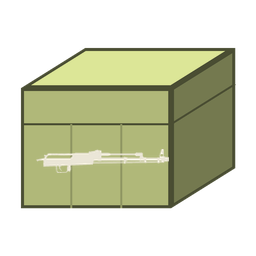
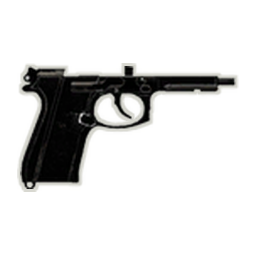
feat(gui): Gunsmith storage is a built-in primary container (#175 PR 3)
Review feedback: it's a primary, feature-wise a sibling of the stash —
the game gives every player exactly one Gunsmith → Storage. So instead
of a user-created Case it's now seeded once per profile (the default-
Shelf contract: persisted flag, fixed id "gunsmith-storage") with the
30 kg cap and icon baked in, pinned under Primary storage right below
the stash, with no Edit/Delete — scan and go. The box_gunsmith icon
left the Case picker (the two Collection Boxes remain).

Also per feedback the icon is now a plain black gun: the M9 silhouette
(near-square, so it fills the 28 px cell where a full rifle rendered
as a sliver) with a thin light contour so it stays visible on the dark
theme — the pure-black first cut vanished into the row background.

README follows the new model and the screenshot is re-captured with
the seeded layout. 318 tests green (new: seed-once + stays-deleted
round-trip; primary renders without actions, with its baked-in cap).

diff --git a/crates/app/src/state.rs b/crates/app/src/state.rs
@@ -17,6 +17,14 @@ pub const OVERRIDES_SCHEMA_VERSION: u32 = 1;
 
 pub type ContainerId = String;
 
+/// Fixed id of the built-in **Gunsmith storage** container. It's a *primary*
+/// like the stash — the game gives every player exactly one (Gunsmith →
+/// Storage, 30 kg cap) — so it's seeded once per profile with this well-known
+/// id ([`AppState::seed_gunsmith_storage`]) and pinned in the Containers tab's
+/// Primary section with no Edit/Delete. Minted ids are `ctr-<n>`, so this can
+/// never collide.
+pub const GUNSMITH_STORAGE_ID: &str = "gunsmith-storage";
+
 /// What kind of secondary container this is. Only [`ContainerKind::Case`]
 /// containers have an in-game contents screen, so only they support the
 /// screenshot/OCR scan; bags and shelves are entered by hand.
@@ -121,6 +129,10 @@ pub struct AppState {
     /// shelf is seeded exactly once per profile (fresh *or* pre-existing) and a
     /// later deletion doesn't bring it back.
     pub default_shelf_seeded: bool,
+    /// Set once the built-in Gunsmith storage has been created (see
+    /// [`AppState::seed_gunsmith_storage`]). Same one-shot contract as
+    /// [`Self::default_shelf_seeded`].
+    pub gunsmith_storage_seeded: bool,
     /// Modules the user has marked as unavailable (e.g. quest-locked). Their
     /// tracked upgrades stay tracked but don't contribute to `active_items`,
     /// so the wishlist hides items the user can't act on yet.
@@ -175,6 +187,7 @@ impl AppState {
             containers: Vec::new(),
             next_container_seq: 0,
             default_shelf_seeded: false,
+            gunsmith_storage_seeded: false,
             disabled_modules: HashSet::new(),
             overrides: HashMap::new(),
             research_states: HashMap::new(),
@@ -947,6 +960,29 @@ impl AppState {
         }
     }
 
+    /// Seed the built-in **Gunsmith storage** primary container exactly once
+    /// per profile (fresh *or* pre-existing — same contract as the default
+    /// Shelf). The game gives every player exactly one Gunsmith → Storage with
+    /// a 30 kg cap, so it arrives ready to scan: fixed id, `Case` kind, the
+    /// gunsmith icon, and the cap baked in. Returns whether it seeded (so the
+    /// caller can persist synchronously, before the save loop exists).
+    pub fn seed_gunsmith_storage(&mut self) -> bool {
+        if self.gunsmith_storage_seeded {
+            return false;
+        }
+        self.containers.push(Container {
+            id: GUNSMITH_STORAGE_ID.to_string(),
+            name: "Gunsmith storage".to_string(),
+            contents: HashMap::new(),
+            icon: Some("box_gunsmith".to_string()),
+            kind: ContainerKind::Case,
+            capacity_kg: Some(30.0),
+        });
+        self.gunsmith_storage_seeded = true;
+        self.bump();
+        true
+    }
+
     /// Set (or clear, with `None`) a container's weight cap in kg. No-op if
     /// the id is unknown or the value is unchanged.
     pub fn set_container_capacity(&mut self, id: &ContainerId, capacity_kg: Option<f32>) {
@@ -1349,6 +1385,10 @@ pub struct PersistedState {
     /// is created once on the next launch.
     #[serde(default)]
     pub default_shelf_seeded: bool,
+    /// Whether the built-in Gunsmith storage has been seeded — same
+    /// forward-compat path as `default_shelf_seeded`.
+    #[serde(default)]
+    pub gunsmith_storage_seeded: bool,
     /// Recorded research progress. `#[serde(default)]` so a pre-research
     /// `state.json` loads as "nothing recorded" — same path as `containers`.
     #[serde(default)]
@@ -1370,6 +1410,7 @@ impl PersistedState {
             containers: state.containers.clone(),
             next_container_seq: state.next_container_seq,
             default_shelf_seeded: state.default_shelf_seeded,
+            gunsmith_storage_seeded: state.gunsmith_storage_seeded,
             research_states: state.research_states.clone(),
             tracked_research: state.tracked_research.clone(),
         }
@@ -1449,6 +1490,7 @@ impl PersistedState {
         state.containers = self.containers;
         state.next_container_seq = self.next_container_seq;
         state.default_shelf_seeded = self.default_shelf_seeded;
+        state.gunsmith_storage_seeded = self.gunsmith_storage_seeded;
         state.bump();
 
         if warnings.is_empty() {
@@ -1783,6 +1825,30 @@ mod tests {
         // Clearing the cap sticks.
         s.set_container_capacity(&id, None);
         assert_eq!(s.containers[0].capacity_kg, None);
+    }
+
+    #[test]
+    fn gunsmith_storage_seeds_exactly_once_and_stays_deleted() {
+        let mut s = AppState::new(fixture());
+        assert!(s.seed_gunsmith_storage(), "fresh profile seeds");
+        assert!(!s.seed_gunsmith_storage(), "second call is a no-op");
+        let g = s
+            .containers
+            .iter()
+            .find(|c| c.id == GUNSMITH_STORAGE_ID)
+            .expect("seeded container present");
+        assert_eq!(g.kind, ContainerKind::Case);
+        assert_eq!(g.capacity_kg, Some(30.0));
+
+        // The flag round-trips, so a (programmatic) deletion doesn't come back
+        // on the next launch — same contract as the default Shelf.
+        s.delete_container(&GUNSMITH_STORAGE_ID.to_string());
+        let json = serde_json::to_string(&PersistedState::from_app(&s)).unwrap();
+        let back: PersistedState = serde_json::from_str(&json).unwrap();
+        let mut s2 = AppState::new(s.data.clone());
+        back.merge_into(&mut s2);
+        assert!(!s2.seed_gunsmith_storage(), "flag survives the round-trip");
+        assert!(s2.containers.iter().all(|c| c.id != GUNSMITH_STORAGE_ID));
     }
 
     #[test]
@@ -2140,6 +2206,7 @@ mod tests {
             containers: Vec::new(),
             next_container_seq: 0,
             default_shelf_seeded: false,
+            gunsmith_storage_seeded: false,
             research_states: HashMap::new(),
             tracked_research: HashSet::new(),
         };
@@ -3012,6 +3079,7 @@ mod tests {
             containers: Vec::new(),
             next_container_seq: 0,
             default_shelf_seeded: false,
+            gunsmith_storage_seeded: false,
             research_states: HashMap::new(),
             tracked_research: HashSet::new(),
         };

diff --git a/crates/app/src/gui/containers_pane.rs b/crates/app/src/gui/containers_pane.rs
@@ -25,7 +25,7 @@ use crate::gui::items_db_pane::format_price;
 use crate::gui::{icon_cache::IconCache, theme, SaveTick};
 use crate::ocr::box_scan::ScanRow;
 use crate::ocr::{BoxCommand, BoxScanStatus, BoxScanUpdate, ScanTarget};
-use crate::state::{AppState, ContainerId, ContainerKind};
+use crate::state::{AppState, ContainerId, ContainerKind, GUNSMITH_STORAGE_ID};
 use crate::vr::capture_session::CaptureMode;
 use crossbeam_channel::Sender;
 use parking_lot::RwLock;
@@ -54,13 +54,14 @@ const DEFAULT_CONTAINER_ICON: &str = "backpack_3drt";
 /// Fixed icon for the pinned primary Stash row.
 const STASH_ICON: &str = "stash";
 
-/// Case icons offered when the container's type is `Case`. The two Collection
-/// Boxes store MISC items, and the Gunsmith → Storage terminal stores gun
-/// parts (tracked since the #175 catalog) — the other in-game boxes
-/// (mag/attachment, medical, paint) hold categories the tracker doesn't model.
-/// Generated flat-3D crate art (upstream has no images for these). Order here
-/// is the picker-grid order.
-const CASE_ICONS: &[&str] = &["box_collection", "box_collection_small", "box_gunsmith"];
+/// Case icons offered when the container's type is `Case`. Only the two
+/// Collection Boxes are listed: they're the boxes that store MISC items —
+/// whereas the other in-game boxes (mag/attachment, medical, paint) hold
+/// categories the tracker doesn't model, and the Gunsmith → Storage is the
+/// *built-in* primary container (seeded with its own `box_gunsmith` icon, not
+/// user-created). Generated flat-3D crate art (upstream has no images for
+/// these). Order here is the picker-grid order.
+const CASE_ICONS: &[&str] = &["box_collection", "box_collection_small"];
 /// Default icon for a newly-created Case container.
 const DEFAULT_CASE_ICON: &str = "box_collection";
 
@@ -330,10 +331,18 @@ pub fn ui(
     // (scannable), Shelves, and Bags (both declarative/manual). Empty
     // secondary sections are hidden; the "New container" button adds any kind.
     let sort = sort_state(ui.ctx());
+    let mut gunsmith_row: Option<Row> = None;
     let mut case_rows: Vec<Row> = Vec::new();
     let mut bag_rows: Vec<Row> = Vec::new();
     let mut shelf_rows: Vec<Row> = Vec::new();
     for row in rows {
+        // The built-in Gunsmith storage is a *primary* like the stash (the
+        // game gives every player exactly one) — pinned below it, not listed
+        // under Cases.
+        if matches!(&row.target, Target::Container(id) if id == GUNSMITH_STORAGE_ID) {
+            gunsmith_row = Some(row);
+            continue;
+        }
         match row.kind {
             ContainerKind::Case => case_rows.push(row),
             ContainerKind::Shelf => shelf_rows.push(row),
@@ -344,15 +353,19 @@ pub fn ui(
     sort_rows(&mut bag_rows, sort);
     sort_rows(&mut shelf_rows, sort);
 
-    // --- Primary: the stash. ---
+    // --- Primary: the stash + the built-in Gunsmith storage. ---
     ui.add_space(2.0);
     section_title(ui, "Primary storage");
     section_caption(
         ui,
-        "The stash — where items must be for hideout upgrades. Scannable.",
+        "The stash — where items must be for hideout upgrades — and the \
+         gunsmith's gun-parts storage (30 kg cap). Both scannable.",
     );
     column_header(ui, true);
     container_row(ui, state, icons, save_tx, &mut scan, &stash_row);
+    if let Some(row) = &gunsmith_row {
+        container_row(ui, state, icons, save_tx, &mut scan, row);
+    }
 
     // --- Secondary sections, each shown only when it has containers. Order:
     // Cases (scannable) first, then the manual kinds Shelves and Bags. ---
@@ -992,22 +1005,26 @@ fn container_row(
 
         // Actions column (secondary containers only): Edit + Delete, always
         // visible. Lives outside the toggle rect so its buttons don't fold.
+        // The built-in Gunsmith storage is a primary like the stash — fixed
+        // name/icon/cap, so no actions.
         if let Target::Container(id) = &row.target {
-            let mut a = ui.new_child(
-                egui::UiBuilder::new()
-                    .max_rect(c.actions.shrink2(egui::vec2(CELL_PAD, 4.0)))
-                    .layout(egui::Layout::left_to_right(egui::Align::Center)),
-            );
-            row_actions(
-                &mut a,
-                state,
-                save_tx,
-                id,
-                &row.name,
-                resolve_icon_key(&row.icon),
-                row.kind,
-                row.capacity_kg,
-            );
+            if id != GUNSMITH_STORAGE_ID {
+                let mut a = ui.new_child(
+                    egui::UiBuilder::new()
+                        .max_rect(c.actions.shrink2(egui::vec2(CELL_PAD, 4.0)))
+                        .layout(egui::Layout::left_to_right(egui::Align::Center)),
+                );
+                row_actions(
+                    &mut a,
+                    state,
+                    save_tx,
+                    id,
+                    &row.name,
+                    resolve_icon_key(&row.icon),
+                    row.kind,
+                    row.capacity_kg,
+                );
+            }
         }
     }
 
@@ -2067,6 +2084,23 @@ mod tests {
         h.run();
         // 2 × 12.4 kg rendered against the 30 kg cap.
         h.get_by_label("24.80 / 30 kg");
+    }
+
+    #[test]
+    fn gunsmith_storage_renders_as_primary_without_actions() {
+        let state = Arc::new(RwLock::new(AppState::new(game_data())));
+        state.write().seed_gunsmith_storage();
+        state.write().create_container("Backpack".into());
+        let mut h = harness(&state);
+        h.run();
+
+        // The built-in primary renders (pinned under Primary storage)…
+        h.get_by_label("Gunsmith storage");
+        // …with its baked-in cap…
+        h.get_by_label("0.00 / 30 kg");
+        // …but no Edit/Delete: only the user-created Backpack offers actions.
+        assert_eq!(h.get_all_by_label("Delete").count(), 1);
+        assert_eq!(h.get_all_by_label("Edit").count(), 1);
     }
 
     #[test]

diff --git a/crates/app/src/main.rs b/crates/app/src/main.rs
@@ -120,6 +120,16 @@ fn main() -> Result<()> {
         tracing::info!("seeded built-in default Shelf");
     }
 
+    // Seed the built-in Gunsmith storage the same way — a *primary* container
+    // like the stash (the game gives every player exactly one, capped at
+    // 30 kg), pinned in the Containers tab and ready to scan.
+    if app_state.seed_gunsmith_storage() {
+        if let Err(e) = persist::save(&paths, &app_state) {
+            tracing::warn!(error = %e, "failed to persist seeded Gunsmith storage");
+        }
+        tracing::info!("seeded built-in Gunsmith storage");
+    }
+
     let shared_state = Arc::new(RwLock::new(app_state));
     let (save_tx, save_rx) = crossbeam_channel::unbounded::<gui::SaveTick>();
     let _save_handle = save_loop::spawn(shared_state.clone(), paths.clone(), save_rx);

diff --git a/README.md b/README.md
@@ -64,11 +64,11 @@ The preview pane on the right is the heart of it: every item across all the upgr
 
 ### 🗃 Track items across your containers
 
-Your barter items aren't all in one place — some sit in your main stash, others in item cases, on hideout shelves, or in a backpack. The **Containers** tab lets you model that. Your **stash** is pinned at the top as primary storage, and below it you can add secondary containers grouped by type — **Cases**, **Shelves**, and **Bags** — each with a name and an icon. Every container's contents count toward your owned totals exactly like the stash, so stashing three bolts in a case and four in your stash still flips an upgrade that needs seven to *ready*.
+Your barter items aren't all in one place — some sit in your main stash, others in item cases, on hideout shelves, or in a backpack. The **Containers** tab lets you model that. Your **stash** and the gunsmith's **gun-parts storage** are pinned at the top as primary storage — the game gives you exactly one of each — and below them you can add secondary containers grouped by type — **Cases**, **Shelves**, and **Bags** — each with a name and an icon. Every container's contents count toward your owned totals exactly like the stash, so stashing three bolts in a case and four in your stash still flips an upgrade that needs seven to *ready*.
 
 For storage that has an in-game contents screen — your **stash** and the **Cases** — you don't have to type it all in. Hit **Scan from screen**, open the matching screen in-game, and just **scroll slowly**: it captures automatically as new rows come into view and merges the overlapping shots into one list (or press **SPACE** to grab a shot by hand). A centered window shows the running tally live with an **Auto-capture** toggle, and **Finish & review** opens a before/after diff (new, changed, and removed items) — alongside the rows it actually read, so you can drop any that look wrong — before you commit. Applying a scan **replaces** that container's contents with what was read — the review step spells that out up front.
 
-Containers can also carry a **weight cap**. The gunsmith's **Storage** terminal — where your raid-found gun parts pile up — is the reason this exists: it holds **30 kg**, can't be sorted, and the in-game screen never totals what's inside. Create a Case with the *Gunsmith storage* icon, set *Max weight* to 30, scan the screen, and the table answers everything at a glance: what's in there, what it's worth, and `27.74 / 30 kg` against the cap — turning **amber** as you close in on it and **red** if your recorded counts ever drift past it. The catalog knows the real weight of nearly every gun part (and every barter item), so the sum is the game's own math. The junk-box Collection Cases cap at 30 kg too — the same field works for them.
+Containers can also carry a **weight cap**, and the built-in **Gunsmith storage** is the reason: the gunsmith's Storage terminal — where your raid-found gun parts pile up — holds **30 kg**, can't be sorted, and the in-game screen never totals what's inside. It ships pinned under Primary storage with the cap already set: scan its screen and the table answers everything at a glance — what's in there, what it's worth, and `27.74 / 30 kg` against the cap, turning **amber** as you close in on it and **red** if your recorded counts ever drift past it. The catalog knows the real weight of nearly every gun part (and every barter item), so the sum is the game's own math. Your own Cases can carry a cap too via *Max weight* in the create/edit dialog — the junk-box Collection Cases also hold 30 kg.
 
 <p align="center">
   <img src="docs/images/desktop-containers.png" alt="Containers tab — the gunsmith storage at 27.74 / 30 kg against its weight cap" width="820">
